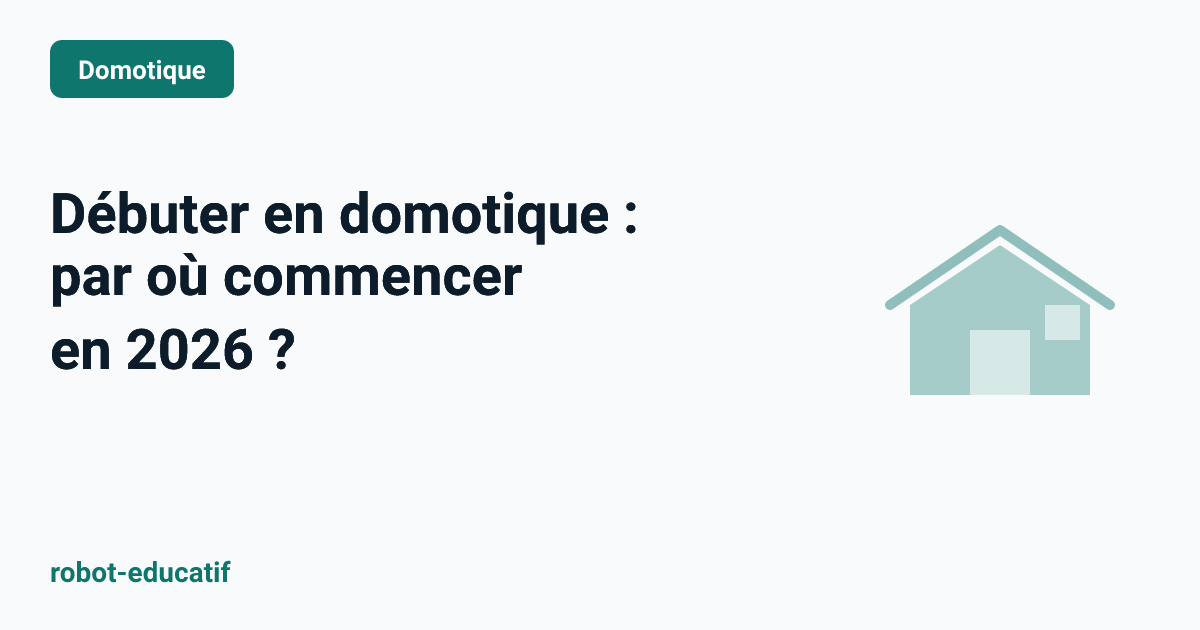
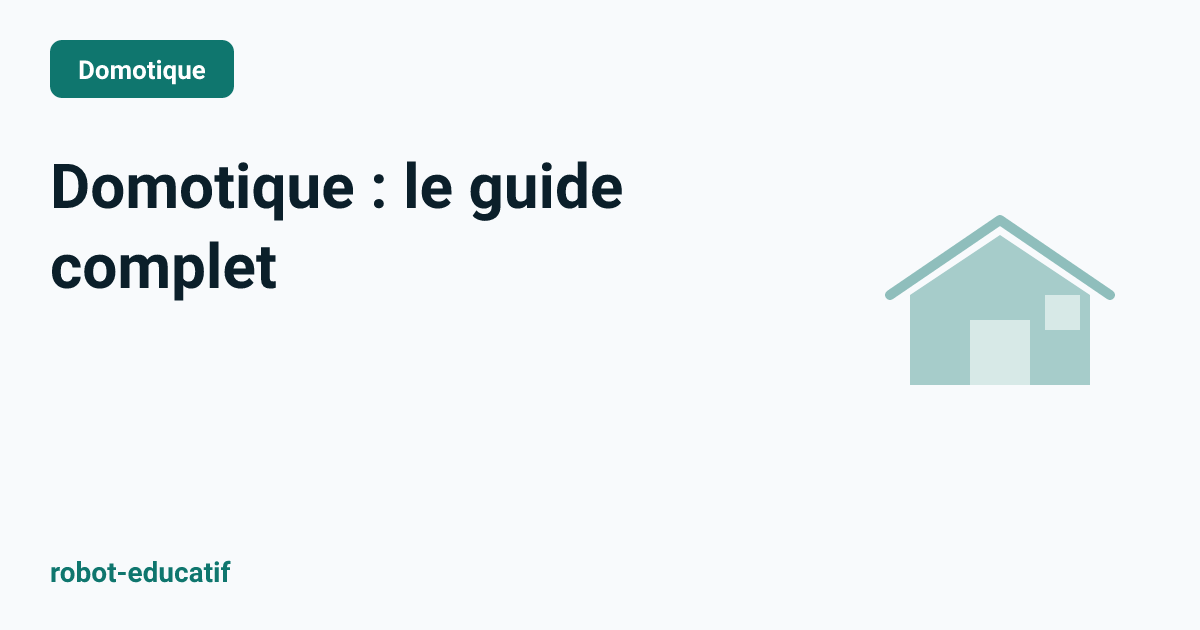
fix: WebP + hash de contenu + og:image versionnées
Corrections lot 3 :

1. Hash de contenu au lieu de timestamp
   - Avant : Date.now() → change toutes les pages à chaque build
   - Après : MD5 sur 8 char du contenu → stable entre builds
   - Cache en mémoire pour performance

2. Listes en WebP avec ?v=
   - /blog/index.astro : .png → .webp + ?v=HASH
   - /index.astro : .png → .webp + ?v=HASH
   - Réduction poids ~50%

3. og:image hub domotique avec ?v=
   - /domotique/index.astro : withImageVersion() appliqué
   - Cache immutable compatible

4. Tentative génération hub unique
   - Script étendu mais exécution à corriger
   - Fichier actuel identique à débuter-domotique

Note : Hub domotique nécessite génération manuelle séparée.
Builds successifs donnent mêmes ?v= (hash stable).

diff --git a/src/lib/imageVersion.ts b/src/lib/imageVersion.ts
@@ -1,13 +1,43 @@
 /**
  * Ajoute un paramètre de version aux URLs d'images pour le cache
- * Format: /images/blog-thumbnails/slug.png?v=BUILD_TIME
+ * Format: /images/blog-thumbnails/slug.png?v=HASH_8CHAR
+ * Le hash est calculé sur le contenu du fichier (stable entre builds)
  */
 
-// Timestamp du build (constant pendant toute la build)
-const BUILD_TIME = Date.now().toString(36);
+import { createHash } from 'node:crypto';
+import { readFileSync, existsSync } from 'node:fs';
+import { join } from 'node:path';
+
+// Cache des hashs en mémoire pour éviter de relire les fichiers
+const hashCache = new Map<string, string>();
 
 /**
- * Ajoute ?v= à une URL d'image
+ * Calcule le hash MD5 court (8 caractères) du contenu d'un fichier
+ */
+function getFileHash(filePath: string): string {
+	if (hashCache.has(filePath)) {
+		return hashCache.get(filePath)!;
+	}
+	
+	try {
+		const publicPath = join(process.cwd(), 'public', filePath.replace(/^\//, ''));
+		
+		if (!existsSync(publicPath)) {
+			// Fichier inexistant, utiliser un hash par défaut
+			return '00000000';
+		}
+		
+		const content = readFileSync(publicPath);
+		const hash = createHash('md5').update(content).digest('hex').substring(0, 8);
+		hashCache.set(filePath, hash);
+		return hash;
+	} catch (err) {
+		return '00000000';
+	}
+}
+
+/**
+ * Ajoute ?v=HASH à une URL d'image
  */
 export function withImageVersion(url: string): string {
 	if (!url) return url;
@@ -19,8 +49,9 @@ export function withImageVersion(url: string): string {
 	
 	// Ajouter ?v= seulement aux images dans /images/
 	if (url.includes('/images/')) {
+		const hash = getFileHash(url);
 		const separator = url.includes('?') ? '&' : '?';
-		return `${url}${separator}v=${BUILD_TIME}`;
+		return `${url}${separator}v=${hash}`;
 	}
 	
 	return url;
@@ -29,6 +60,7 @@ export function withImageVersion(url: string): string {
 /**
  * Version spécifique pour les images Astro (ImageMetadata)
  */
-export function getImageVersionParam(): string {
-	return `v=${BUILD_TIME}`;
+export function getImageVersionParam(url: string): string {
+	const hash = getFileHash(url);
+	return `v=${hash}`;
 }
